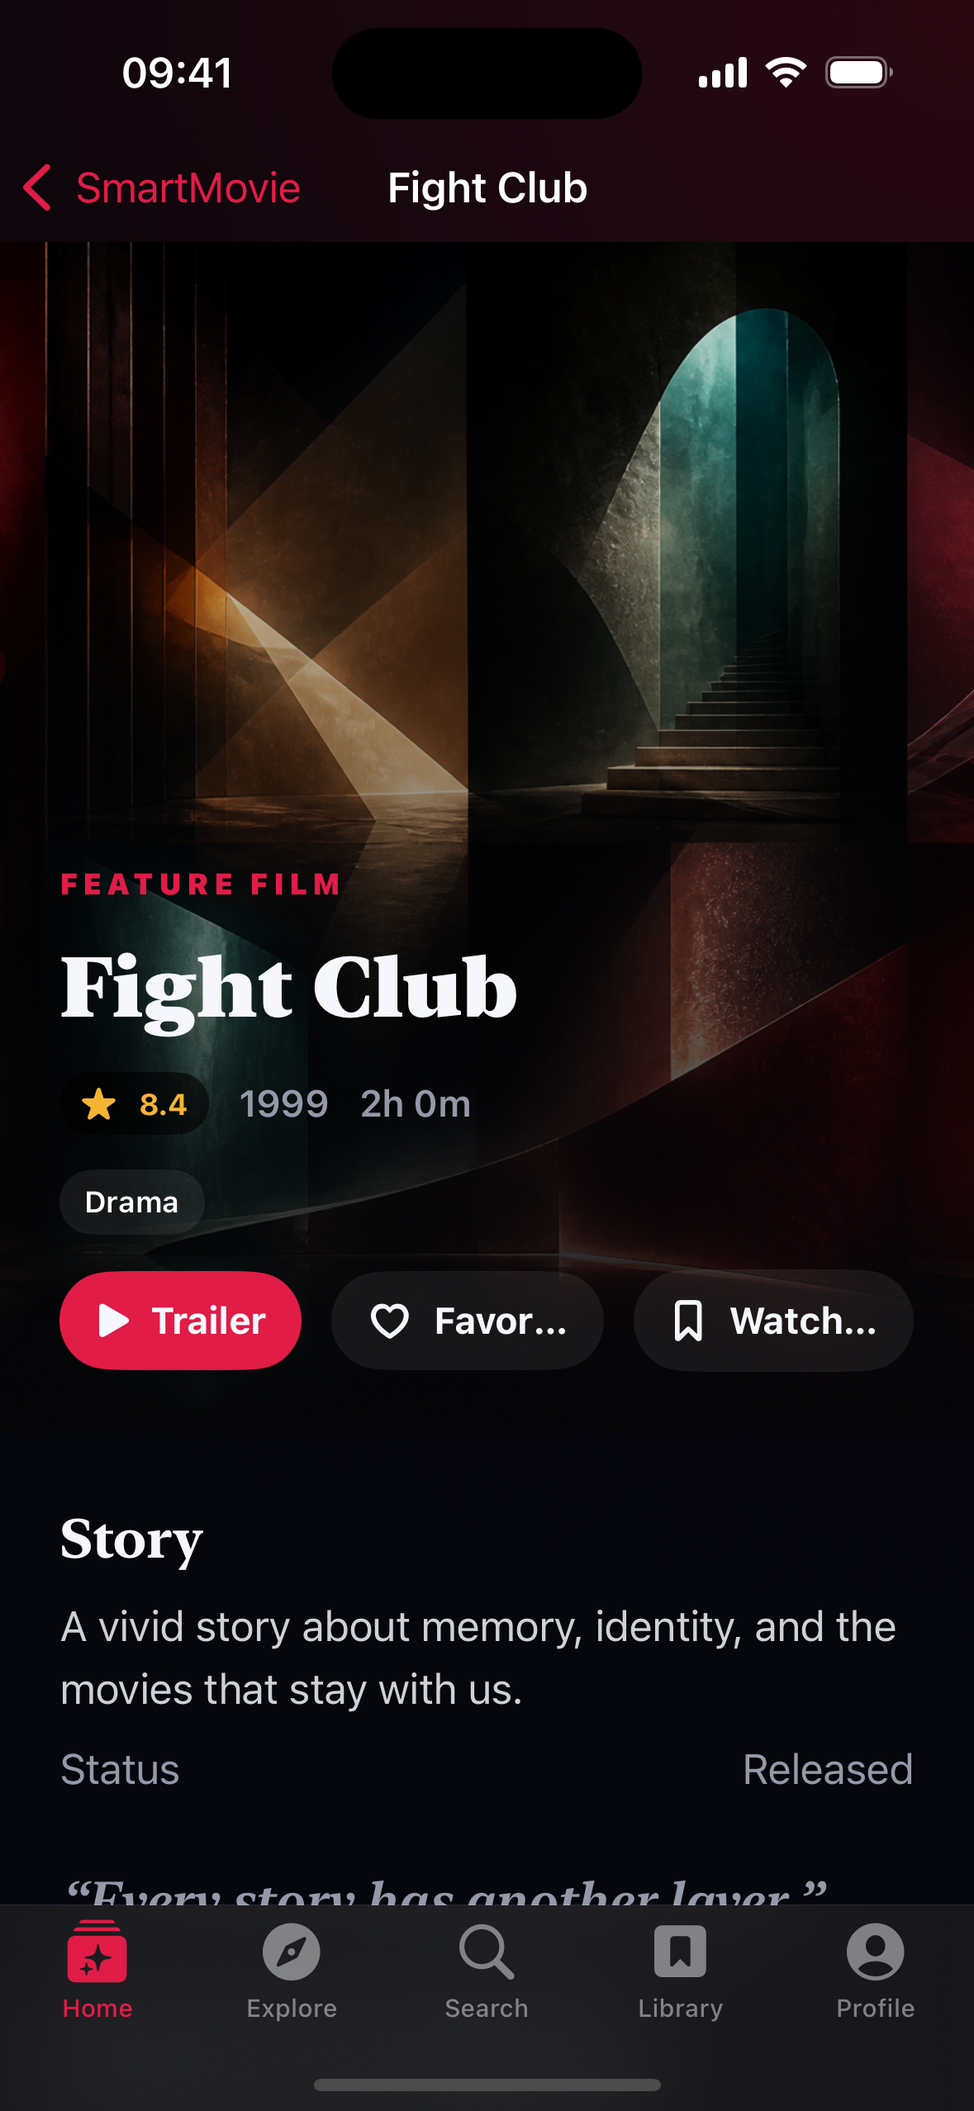
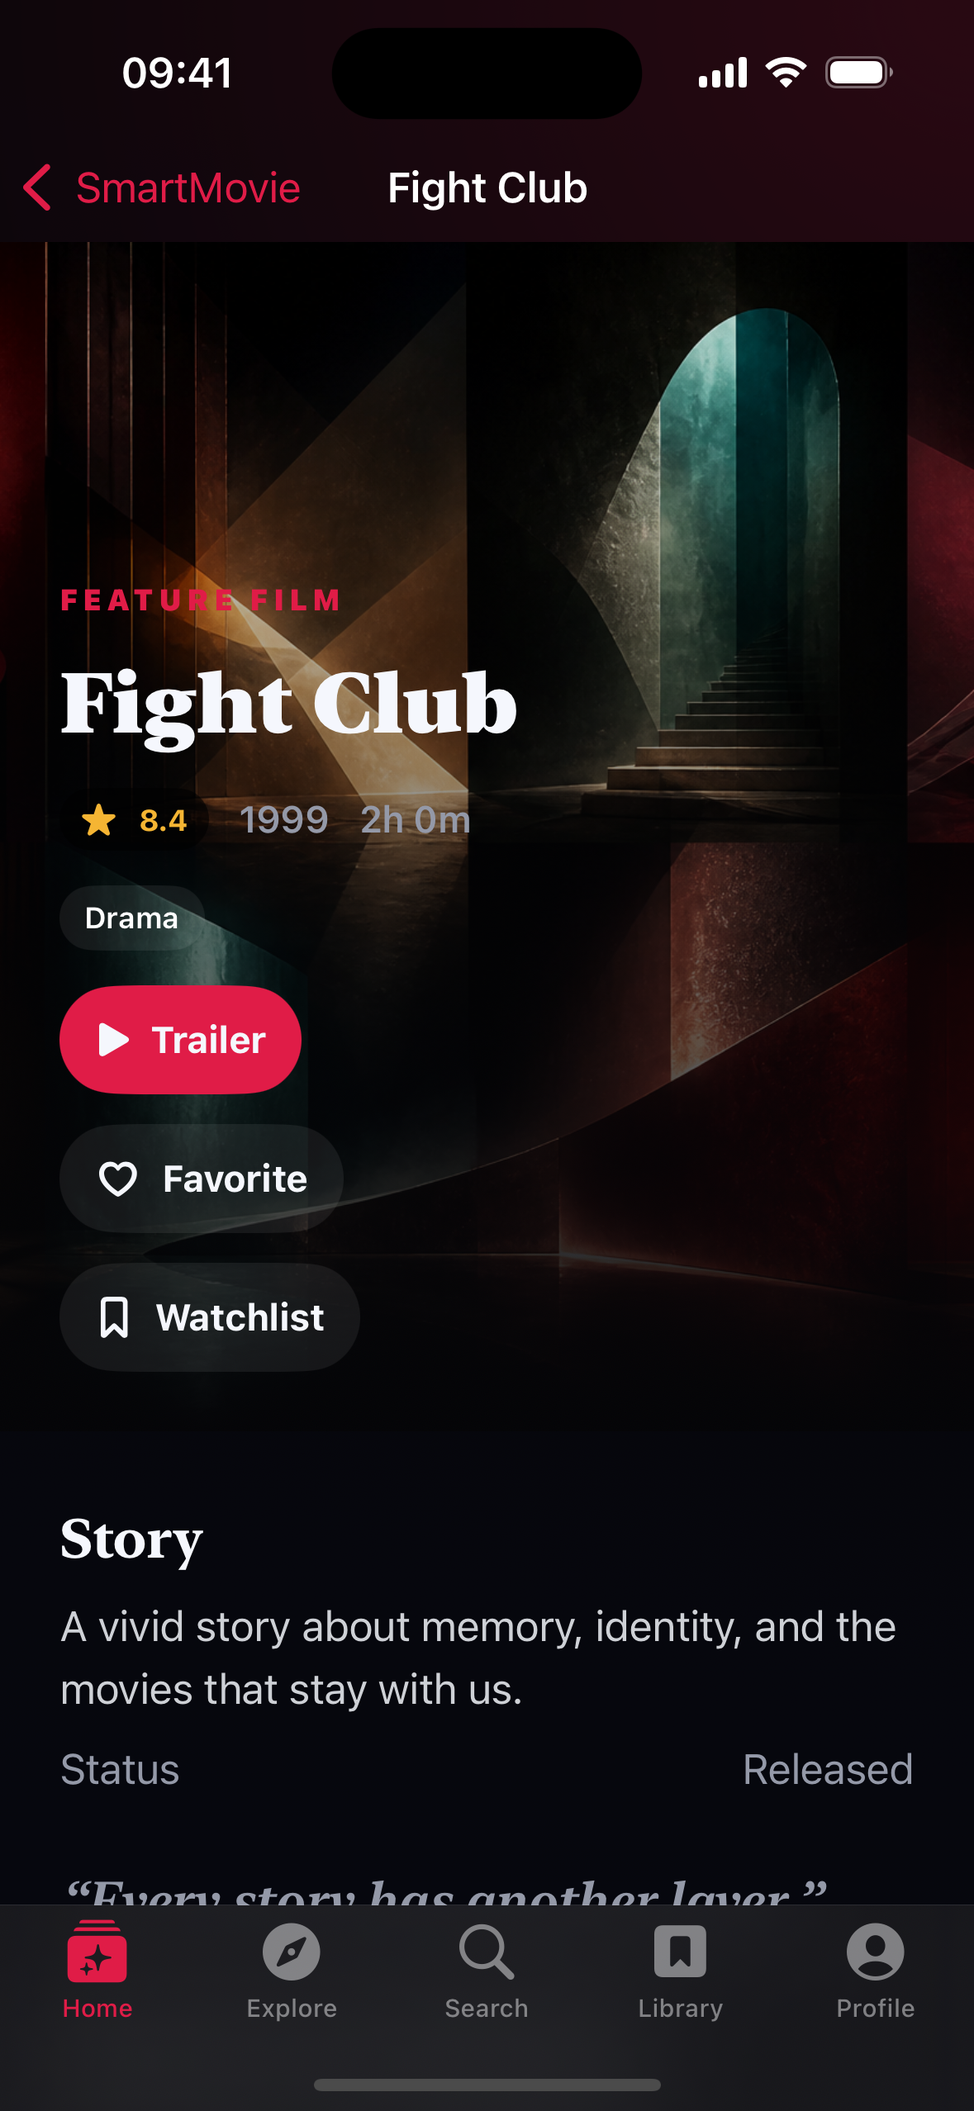
Adapt Detail actions and metadata to compact and large-text layouts

Changed region(s): [[0.0611, 0.2782, 0.5496, 0.6491], [0.6718, 0.6182, 0.8855, 0.6491], [0.3664, 0.6182, 0.5496, 0.6491]]

diff --git a/SmartMovieKit/Tests/SmartMovieKitTests/DetailActionLayoutTests.swift b/SmartMovieKit/Tests/SmartMovieKitTests/DetailActionLayoutTests.swift
@@ -1,0 +1,112 @@
+#if os(macOS)
+import AppKit
+import SwiftUI
+import XCTest
+@testable import SmartMovieKit
+
+final class DetailActionLayoutTests: XCTestCase {
+    private let translations = [
+        ["Trailer", "Favorite", "Watchlist"],
+        ["Trailer", "Yêu thích", "Danh sách xem"],
+        ["予告編", "お気に入り", "ウォッチリスト"],
+        ["예고편", "즐겨찾기", "시청 목록"],
+        ["预告片", "收藏", "想看"],
+        ["預告片", "喜愛", "待看片單"]
+    ]
+
+    @MainActor
+    func testNarrowLayoutPreservesAllLabelsByStackingInsteadOfCompressing() throws {
+        for titles in translations {
+            let actual = AdaptiveDetailGroup { self.pills(titles) }
+            let expected = VStack(alignment: .leading, spacing: 12) { pills(titles) }
+            try assertSamePixels(actual, expected, width: 180)
+        }
+    }
+
+    @MainActor
+    func testWideLayoutKeepsActionsOnOneRow() throws {
+        let titles = translations[0]
+        let actual = AdaptiveDetailGroup { self.pills(titles) }
+        let expected = HStack(spacing: 12) { pills(titles) }.fixedSize(horizontal: true, vertical: true)
+        try assertSamePixels(actual, expected, width: 900)
+    }
+
+    @MainActor
+    func testFourthActionAlsoParticipatesInLayout() throws {
+        let titles = translations[0] + ["Rate"]
+        let actual = AdaptiveDetailGroup { self.pills(titles) }
+        let expected = VStack(alignment: .leading, spacing: 12) { pills(titles) }
+        try assertSamePixels(actual, expected, width: 300)
+    }
+
+    @MainActor
+    func testLongSingleActionCanGrowVerticallyInsideTheViewport() throws {
+        let title = "Danh sách xem — nội dung yêu thích để xem sau"
+        let content = ActionPill(title: title, systemImage: "bookmark", prominent: false) {}
+        let narrow = ImageRenderer(content: content.frame(width: 160))
+        let wide = ImageRenderer(content: content.frame(width: 600))
+        let narrowImage = try XCTUnwrap(narrow.nsImage)
+        let wideImage = try XCTUnwrap(wide.nsImage)
+        XCTAssertEqual(narrowImage.size.width, 160, accuracy: 0.5)
+        XCTAssertGreaterThan(narrowImage.size.height, wideImage.size.height)
+    }
+
+    @MainActor
+    func testCompactRightToLeftLayoutKeepsLeadingAlignment() throws {
+        let titles = translations[0]
+        let actual = AdaptiveDetailGroup { self.pills(titles) }
+            .environment(\.layoutDirection, .rightToLeft)
+        let expected = VStack(alignment: .leading, spacing: 12) { pills(titles) }
+            .environment(\.layoutDirection, .rightToLeft)
+        try assertSamePixels(actual, expected, width: 180)
+    }
+
+    @MainActor
+    func testActionPillMaintainsMinimumTapHeight() throws {
+        let content = ActionPill(title: "Rate", systemImage: "star", prominent: false) {}
+        let renderer = ImageRenderer(content: content)
+        XCTAssertGreaterThanOrEqual(try XCTUnwrap(renderer.nsImage).size.height, 44)
+    }
+
+    @MainActor
+    func testLargeMetadataValuesStackInsteadOfBreakingDigits() throws {
+        let metadata = {
+            Group {
+                RatingBadge(rating: 8.4)
+                Text("1999")
+                Text("2h 0m")
+            }
+            .font(.system(size: 48))
+        }
+        let actual = AdaptiveDetailGroup(content: metadata)
+        let expected = VStack(alignment: .leading, spacing: 12, content: metadata)
+        try assertSamePixels(actual, expected, width: 200)
+    }
+
+    @MainActor
+    private func pills(_ titles: [String]) -> some View {
+        ForEach(Array(titles.enumerated()), id: \.offset) { index, title in
+            ActionPill(title: title, systemImage: index == 0 ? "play.fill" : "heart", prominent: index == 0) {}
+        }
+    }
+
+    @MainActor
+    private func assertSamePixels<Actual: View, Expected: View>(
+        _ actual: Actual,
+        _ expected: Expected,
+        width: CGFloat,
+        file: StaticString = #filePath,
+        line: UInt = #line
+    ) throws {
+        let actualRenderer = ImageRenderer(content: actual.frame(width: width, alignment: .leading))
+        let expectedRenderer = ImageRenderer(content: expected.frame(width: width, alignment: .leading))
+        let actualImage = try XCTUnwrap(actualRenderer.cgImage, file: file, line: line)
+        let expectedImage = try XCTUnwrap(expectedRenderer.cgImage, file: file, line: line)
+        XCTAssertEqual(actualImage.width, expectedImage.width, file: file, line: line)
+        XCTAssertEqual(actualImage.height, expectedImage.height, file: file, line: line)
+        let actualPixels = try XCTUnwrap(actualImage.dataProvider?.data, file: file, line: line)
+        let expectedPixels = try XCTUnwrap(expectedImage.dataProvider?.data, file: file, line: line)
+        XCTAssertTrue(actualPixels == expectedPixels, "Layout differs from uncompressed labels", file: file, line: line)
+    }
+}
+#endif

diff --git a/SmartMovieKit/Sources/SmartMovieKit/UI/DetailView.swift b/SmartMovieKit/Sources/SmartMovieKit/UI/DetailView.swift
@@ -150,7 +150,7 @@ public struct DetailView: View {
                 Text(detail.title)
                     .font(.system(.largeTitle, design: .serif, weight: .black))
                     .foregroundStyle(CinemaTheme.foreground)
-                HStack(spacing: 12) {
+                AdaptiveDetailGroup {
                     RatingBadge(rating: detail.voteAverage)
                     if let year = detail.releaseDate?.prefix(4) { Text(String(year)) }
                     if let runtime = detail.runtimeMinutes { Text(runtimeText(runtime)) }
@@ -182,7 +182,7 @@ public struct DetailView: View {
     }
 
     private func heroActions(_ model: DetailViewModel) -> some View {
-        HStack(spacing: 12) {
+        AdaptiveDetailGroup {
             ActionPill(
                 title: String(localized: "Trailer", bundle: .module),
                 systemImage: "play.fill",
@@ -231,8 +231,12 @@ public struct DetailView: View {
                 systemImage: accountRating == nil ? "star" : "star.fill"
             )
             .font(.subheadline.weight(.bold))
+            .lineLimit(nil)
+            .fixedSize(horizontal: false, vertical: true)
+            .multilineTextAlignment(.leading)
             .padding(.horizontal, 14)
             .padding(.vertical, 11)
+            .frame(minHeight: 44)
             .background(CinemaTheme.surface, in: Capsule())
         }
         .foregroundStyle(CinemaTheme.foreground)

diff --git a/SmartMovieKit/Sources/SmartMovieKit/UI/AboutView.swift b/SmartMovieKit/Sources/SmartMovieKit/UI/AboutView.swift
@@ -10,9 +10,12 @@ struct ActionPill: View {
         Button(action: action) {
             Label(title, systemImage: systemImage)
                 .font(.subheadline.weight(.bold))
-                .lineLimit(1)
+                .lineLimit(nil)
+                .fixedSize(horizontal: false, vertical: true)
+                .multilineTextAlignment(.leading)
                 .padding(.horizontal, 14)
                 .padding(.vertical, 11)
+                .frame(minHeight: 44)
                 .background(prominent ? CinemaTheme.accent : CinemaTheme.surface, in: Capsule())
         }
         .buttonStyle(.plain)

diff --git a/SmartMovieKit/Sources/SmartMovieKit/UI/AdaptiveDetailGroup.swift b/SmartMovieKit/Sources/SmartMovieKit/UI/AdaptiveDetailGroup.swift
@@ -1,0 +1,14 @@
+import SwiftUI
+
+struct AdaptiveDetailGroup<Content: View>: View {
+    @ViewBuilder let content: () -> Content
+
+    var body: some View {
+        ViewThatFits(in: .horizontal) {
+            // Measure the complete labels before deciding whether a row fits.
+            HStack(spacing: 12, content: content)
+                .fixedSize(horizontal: true, vertical: true)
+            VStack(alignment: .leading, spacing: 12, content: content)
+        }
+    }
+}

diff --git a/README.md b/README.md
@@ -41,7 +41,7 @@ The single cross-repository roadmap is [Kế hoạch phát triển Smart Movie s
 - **Build a local-first library** with independent Favorite and Watchlist actions. SwiftData keeps both readable offline; private CloudKit remains an Apple storage option.
 - **Move between Apple devices naturally** with five adaptive destinations, keyboard/pointer support, focus-driven TV navigation, multi-window Mac/visionOS details, and an Apple Watch companion that mirrors a safe title or exact episode and opens it back on iPhone.
 - **Use the app in six languages**: English, Vietnamese, Japanese, Korean, Simplified Chinese, and Traditional Chinese.
-- **Rely on accessible defaults** including Dynamic Type, VoiceOver labels, Increase Contrast, Reduce Motion, and platform-native focus behavior.
+- **Use adaptive Detail controls**: actions and metadata switch from a row to a column when their full labels need more room; pill labels wrap instead of truncating. Dynamic Type, VoiceOver labels, Increase Contrast, Reduce Motion, and platform-native focus behavior remain part of the ongoing [accessibility QA](docs/SCREENSHOTS.md).
 
 ## Latest screenshots
 
@@ -218,7 +218,7 @@ cd ../..
 ./scripts/verify-release.sh
 ```
 
-The current verified local baseline contains 67 Swift tests, 98 Worker unit/contract tests, and 9 protected-account smoke-runner tests. Coverage includes canonical `/v1` and `/v2` fixture decoding, deterministic catalog-review and recommendation presentation, non-empty editorial and Movie/TV/Season/Episode media fixtures, image/video/external-ID presentation, numeric TMDb Season/Episode external-ID normalization, typed regional release/content-rating, Movie/TV alternative-title and translation metadata, configured capability/fixture equality, fail-closed browser/TV account rollout, malformed broker configuration and return-URI allowlists, cold-start callback deferral, stale completion invalidation, durable outbox isolation, capability-gated Advanced Discover and Profile provider regions with a fail-closed `/v1` fallback, complete Movie/TV Discover queries and regional provider configuration, External ID and Credit Detail source/path mapping, account recommendations, normalized/paginated custom mixed lists, restart-safe pending item snapshots, explicit adult age confirmation, six-digit PIN validation, five-attempt lockout, Worker partitioning plus client-side fail-closed filtering for every entity-related title/credit surface, local adult filtering and in-flight request invalidation, metadata/item mutations, normalized person/title credit links, exact episode companion context, unknown and missing nullable fields, success/error schema validation, repeatable D1 migrations, encryption/callback/CSRF controls, durable idempotency, TMDb Changes pagination/backlog recovery, invalid cursor recovery, verified changing-page-count fallback, D1 parameter-bound chunking, monotonic revision and cache-bypass behavior, retries, cancellation, pagination, and data behavior without live personal credentials. The protected staging runner additionally exercises all Movie/TV Favorite and Watchlist combinations, Movie/TV/Episode ratings, both recommendation feeds, canonical list-ID replay after a lost response, the complete mixed-list lifecycle through verified deletion, stable idempotency keys across 429/5xx/`mutation_in_progress` retry, private cache headers on success and error responses, one Worker version, and exact restoration after success or failure.
+The latest local Swift verification (29 August 2026) passed 78 tests, including artwork and compact/large-text Detail layout regressions. The last recorded backend baseline remains 98 Worker unit/contract tests and 9 protected-account smoke-runner tests; those backend suites were not rerun for this UI-only change. Coverage includes canonical `/v1` and `/v2` fixture decoding, deterministic catalog-review and recommendation presentation, non-empty editorial and Movie/TV/Season/Episode media fixtures, image/video/external-ID presentation, numeric TMDb Season/Episode external-ID normalization, typed regional release/content-rating, Movie/TV alternative-title and translation metadata, configured capability/fixture equality, fail-closed browser/TV account rollout, malformed broker configuration and return-URI allowlists, cold-start callback deferral, stale completion invalidation, durable outbox isolation, capability-gated Advanced Discover and Profile provider regions with a fail-closed `/v1` fallback, complete Movie/TV Discover queries and regional provider configuration, External ID and Credit Detail source/path mapping, account recommendations, normalized/paginated custom mixed lists, restart-safe pending item snapshots, explicit adult age confirmation, six-digit PIN validation, five-attempt lockout, Worker partitioning plus client-side fail-closed filtering for every entity-related title/credit surface, local adult filtering and in-flight request invalidation, metadata/item mutations, normalized person/title credit links, exact episode companion context, unknown and missing nullable fields, success/error schema validation, repeatable D1 migrations, encryption/callback/CSRF controls, durable idempotency, TMDb Changes pagination/backlog recovery, invalid cursor recovery, verified changing-page-count fallback, D1 parameter-bound chunking, monotonic revision and cache-bypass behavior, retries, cancellation, pagination, and data behavior without live personal credentials. The protected staging runner additionally exercises all Movie/TV Favorite and Watchlist combinations, Movie/TV/Episode ratings, both recommendation feeds, canonical list-ID replay after a lost response, the complete mixed-list lifecycle through verified deletion, stable idempotency keys across 429/5xx/`mutation_in_progress` retry, private cache headers on success and error responses, one Worker version, and exact restoration after success or failure.
 
 CI independently builds and analyzes iOS, iPad/Catalyst, tvOS, native macOS, watchOS, and visionOS, then installs and launches the iOS app in Simulator. Read [Testing](docs/TESTING.md) for destination-specific commands and the manual device matrix.
 

diff --git a/docs/DEVELOPMENT_PLAN.md b/docs/DEVELOPMENT_PLAN.md
@@ -1,6 +1,6 @@
 # Kế hoạch phát triển Smart Movie sau 3.0
 
-> Cập nhật: 28/08/2026 · Chủ sở hữu: hai repo **Smart Movie iOS** và **Smart Movie Android**
+> Cập nhật: 29/08/2026 · Chủ sở hữu: hai repo **Smart Movie iOS** và **Smart Movie Android**
 
 Tài liệu này là roadmap duy nhất cho toàn bộ Smart Movie. Mỗi hạng mục được triển khai theo một lát cắt hoàn chỉnh trên Worker, Apple, Android, TV, companion và KMP khi nền tảng đó có liên quan. UI vẫn tuân theo chuẩn từng hệ điều hành; hợp đồng dữ liệu, hành vi lỗi, quyền riêng tư, localization và semantic version phải đồng bộ.
 
@@ -23,7 +23,8 @@ Mục tiêu: biến source candidate hiện tại thành bản phát hành có t
 - Áp dụng D1 migrations cho staging/production; cấu hình khóa mã hóa session, TMDb token, callback origin và allowlist return URI.
 - Kích hoạt DNS/TLS cho Worker staging và production; chạy catalog smoke, protected account smoke và kiểm tra cache/rate-limit/error envelope.
 - Ưu tiên sửa luồng ảnh thật: xác nhận cấu hình TMDb, poster/backdrop/profile/logo và response ảnh trên mỗi client. Ngày 28/08/2026 hai domain Worker chưa phân giải DNS trên máy kiểm tra; ảnh preview cục bộ không thay thế smoke production. Xem [chẩn đoán và kiểm thử ảnh](IMAGE_LOADING.md).
-- Hoàn thiện QA compact Detail: tránh rút gọn nhãn hành động Favorite/Watchlist ở bề ngang nhỏ và kiểm tra sáu locale/Dynamic Type. Bổ sung capture riêng Catalyst, visionOS, native desktop/JS và thiết bị Android/TV/Wear; không coi ảnh Web hoặc component golden là ảnh các nền tảng này.
+- Compact Detail đã sửa nhóm nút và metadata adaptive (29/08/2026): 7 render regression tests và capture iPhone ở cỡ chữ thường/Accessibility lớn nhất. Còn QA các hàng thông tin phía dưới (Status), sáu locale trên thiết bị, signed-in rating, VoiceOver/D-pad. Xem [bằng chứng và giới hạn](SCREENSHOTS.md).
+- Bổ sung capture riêng Catalyst, visionOS, native desktop/JS và thiết bị Android/TV/Wear; không coi ảnh Web hoặc component golden là ảnh các nền tảng này.
 - Hoàn tất Apple signing, CloudKit production schema, App Store Connect metadata, privacy/support URL và ảnh store.
 - Hoàn tất Android signing, Play Internal Testing cho phone/tablet/TV/Wear, age rating, data safety và ảnh store.
 - Build candidate cho native macOS, Catalyst, visionOS, desktop JVM, JS và Wasm; xác nhận không có secret/session trong binary, log hoặc fixture.

diff --git a/docs/SCREENSHOTS.md b/docs/SCREENSHOTS.md
@@ -17,6 +17,20 @@ Bộ ảnh này ghi lại UI phát triển của release train 3.0, không phả
   </tr>
 </table>
 
+### Detail và Dynamic Type — 29/08/2026
+
+Detail iPhone được chụp lại sau khi sửa nhóm nút và metadata adaptive. Ở cỡ chữ thường, Trailer/Favorite/Watchlist hiển thị đầy đủ. Ở `accessibility-extra-extra-extra-large`, điểm số/năm/thời lượng chuyển thành cột; Watchlist đọc được đầy đủ sau khi cuộn. Đây là kiểm tra iPhone 16/iOS 18.6, tiếng Anh, không phải nghiệm thu toàn bộ Dynamic Type, locale hay luồng tài khoản.
+
+<details>
+  <summary>Ảnh QA cỡ chữ Accessibility lớn nhất</summary>
+  <table>
+    <tr>
+      <td><img src="images/screenshots/iphone-detail-accessibility-metadata.png" alt="iPhone Detail metadata at maximum Accessibility text size" width="300"></td>
+      <td><img src="images/screenshots/iphone-detail-accessibility-watchlist.png" alt="iPhone Watchlist label after scrolling at maximum Accessibility text size" width="300"></td>
+    </tr>
+  </table>
+</details>
+
 ## iPad và Mac
 
 <table>
@@ -47,7 +61,7 @@ Mac Catalyst dùng cùng universal SwiftUI composition với iPad ở cửa sổ
 
 ## Phạm vi ảnh
 
-Lượt capture ngày 28/08/2026: Home/Detail iPhone, Home iPad, native macOS và Apple TV được chụp sau bản sửa `1806c44`; Profile iPhone thuộc lượt preview trước đó cùng ngày. Watch vẫn là baseline cũ. Mỗi ảnh chỉ chứng minh bề mặt đã chụp, không thay thế kiểm tra các nền tảng dùng chung source. Detail iPhone còn rút gọn nhãn Favorite/Watchlist ở bề ngang hẹp; đây là mục QA bố cục chưa hoàn tất, không phải lỗi tải ảnh.
+Home iPhone, Home iPad, native macOS và Apple TV được chụp ngày 28/08/2026 sau bản sửa `1806c44`; Profile iPhone thuộc lượt preview trước đó cùng ngày. Detail iPhone được cập nhật ngày 29/08/2026 với các nhãn hành động đầy đủ. Watch vẫn là baseline cũ. Mỗi ảnh chỉ chứng minh bề mặt đã chụp, không thay thế kiểm tra các nền tảng dùng chung source. QA chữ lớn vẫn còn các hàng thông tin phía dưới (ví dụ Status), luồng signed-in rating và kiểm tra VoiceOver/thiết bị thực.
 
 | Bề mặt | Ảnh đại diện | Nguồn |
 | --- | --- | --- |

diff --git a/docs/BASELINE.md b/docs/BASELINE.md
@@ -57,3 +57,13 @@ This evidence proves the checked-in source behavior on the local host; it does n
 - Release/version checks passed: train `3.0.0`, contract `2.0.0` and vendored checksum remained consistent.
 
 The public TMDb example image was reachable, but both configured Worker domains failed DNS resolution from this machine. See [IMAGE_LOADING.md](IMAGE_LOADING.md); production image loading remains a release blocker, not a passing result hidden by demo artwork.
+
+## Compact Detail layout verification — 29 August 2026
+
+- SmartMovieKit: 78 tests passed, including seven new layout regressions for six action-label translation sets, a wide row, an extra action, long-label vertical growth, RTL alignment, minimum rendered button height and large metadata values.
+- Strict SwiftLint: zero violations in 72 files. Unsigned iOS Simulator and tvOS Simulator builds passed.
+- Detail action and metadata groups measure their full labels before choosing a row or leading-aligned column. Pill labels can wrap and have a minimum rendered height of 44 points. Existing action closures, trailer availability and signed-in rating conditions are unchanged.
+- These render tests run on macOS. The fourth-action test uses a generic pill, not the signed-in rating menu; they do not prove account interactions, VoiceOver, D-pad navigation or every locale/device at every Dynamic Type size.
+- Actual iPhone 16/iOS 18.6 preview captures confirmed full English action labels at normal size, unbroken rating/year/runtime at maximum Accessibility size, and the complete Watchlist label after scrolling. The simulator's original `large` text setting was restored. See [screenshots and remaining QA gaps](SCREENSHOTS.md).
+
+The release train and contract stay at `3.0.0`/`2.0.0`. Production/account/store gates remain open; this layout fix is not a release-readiness declaration.
